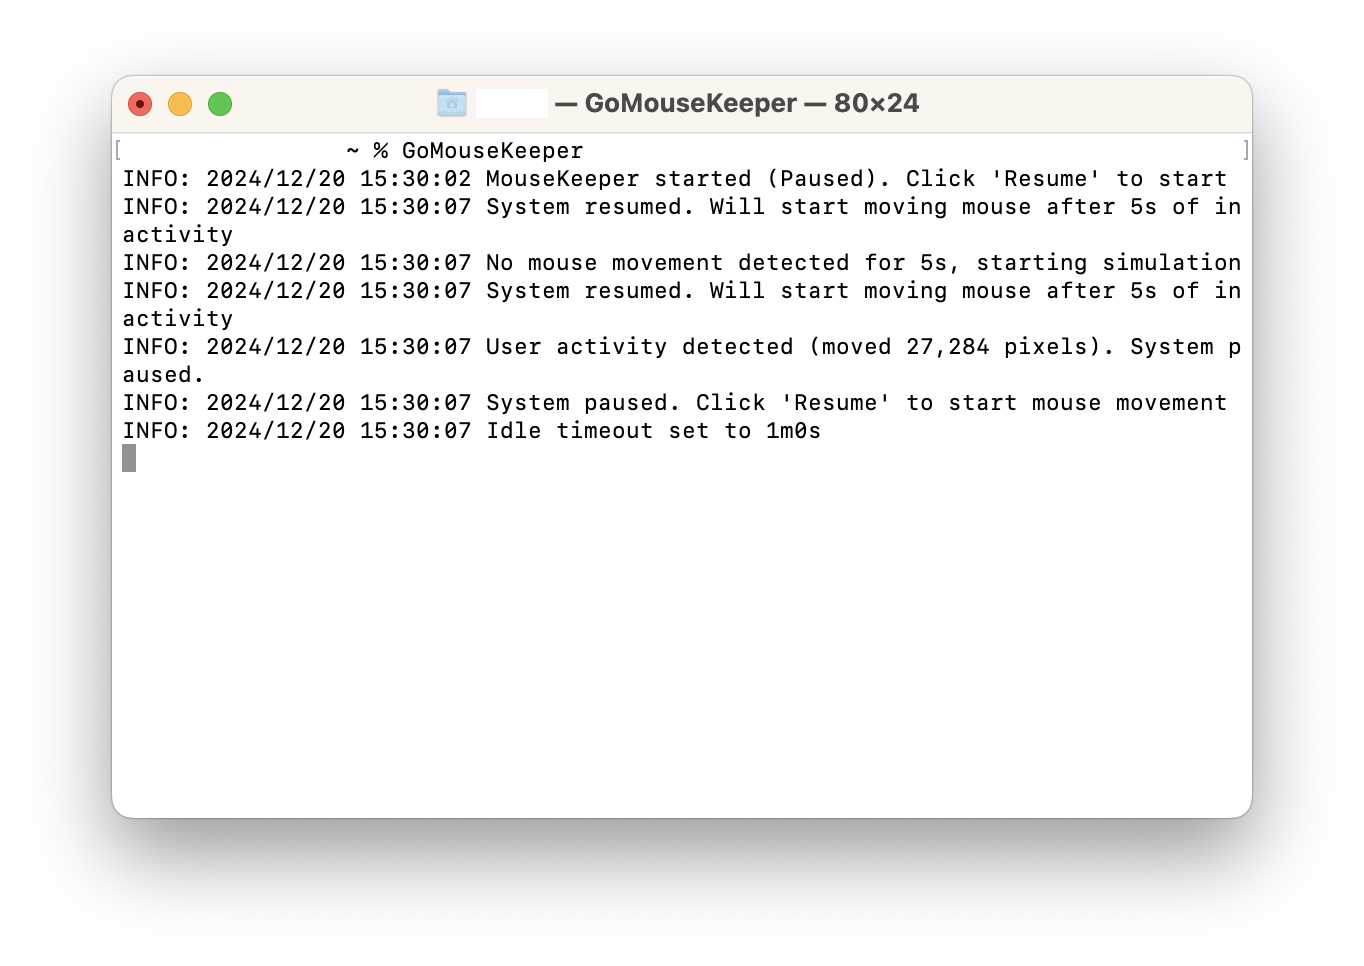
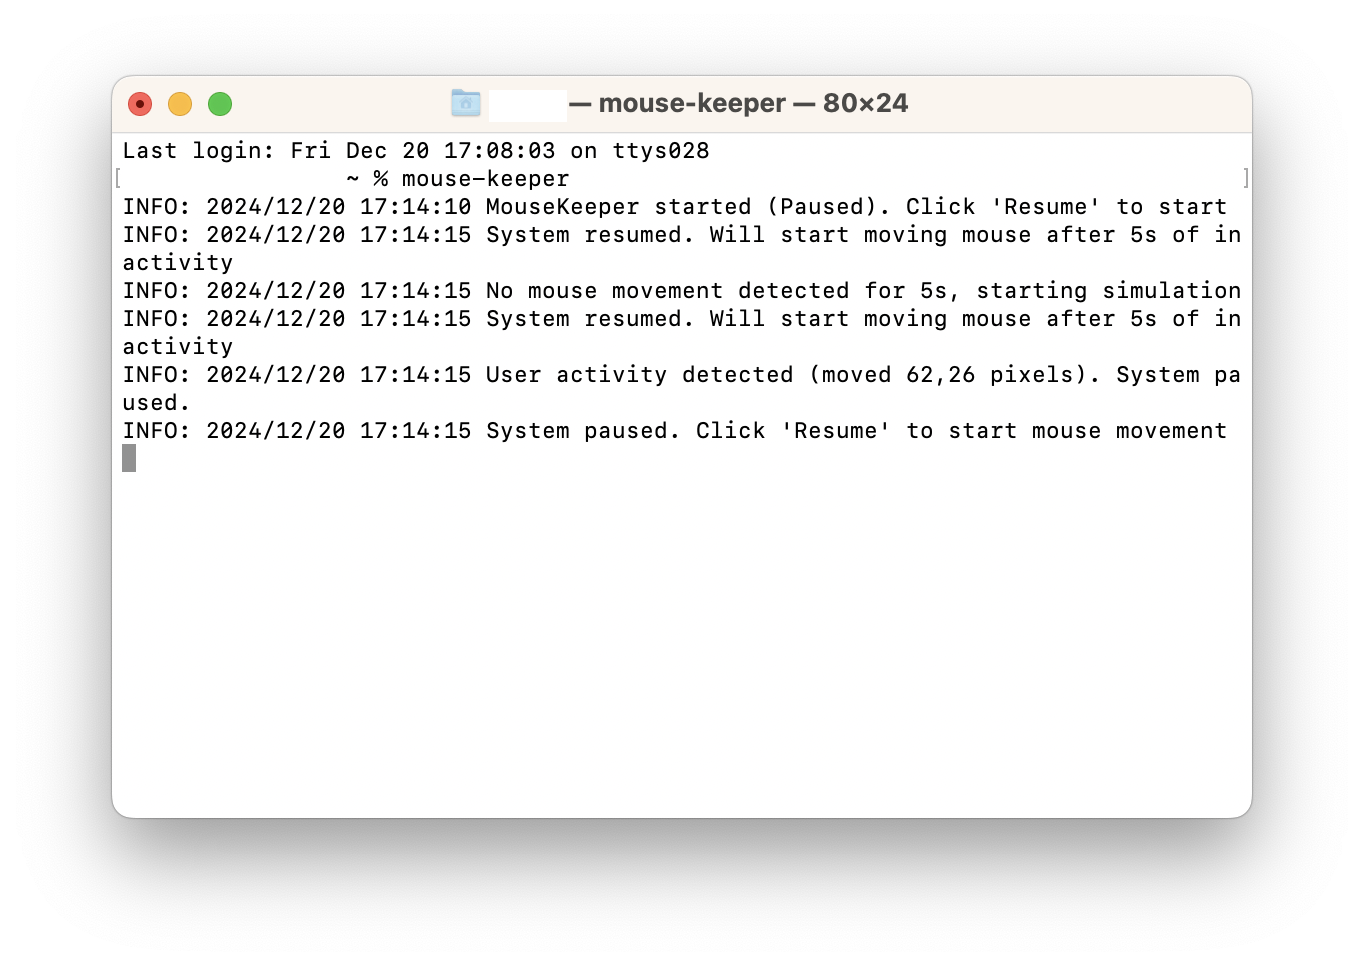
docs

Changed region(s): [[0.0924, 0.0932, 0.9238, 0.4658]]

diff --git a/README.md b/README.md
@@ -19,7 +19,7 @@ GoMouseKeeper / GoMouseBusyer keeps your mouse busy. It's particularly useful in
 go install github.com/Hootrix/go-mouse-keeper/cmd/mouse-keeper@latest
 ```
 
-After installation, simply run `go-mouse-keeper` in your terminal to start the program.
+After installation, simply run `mouse-keeper` in your terminal to start the program.
 
 ### Option 2: Install from Source
 
